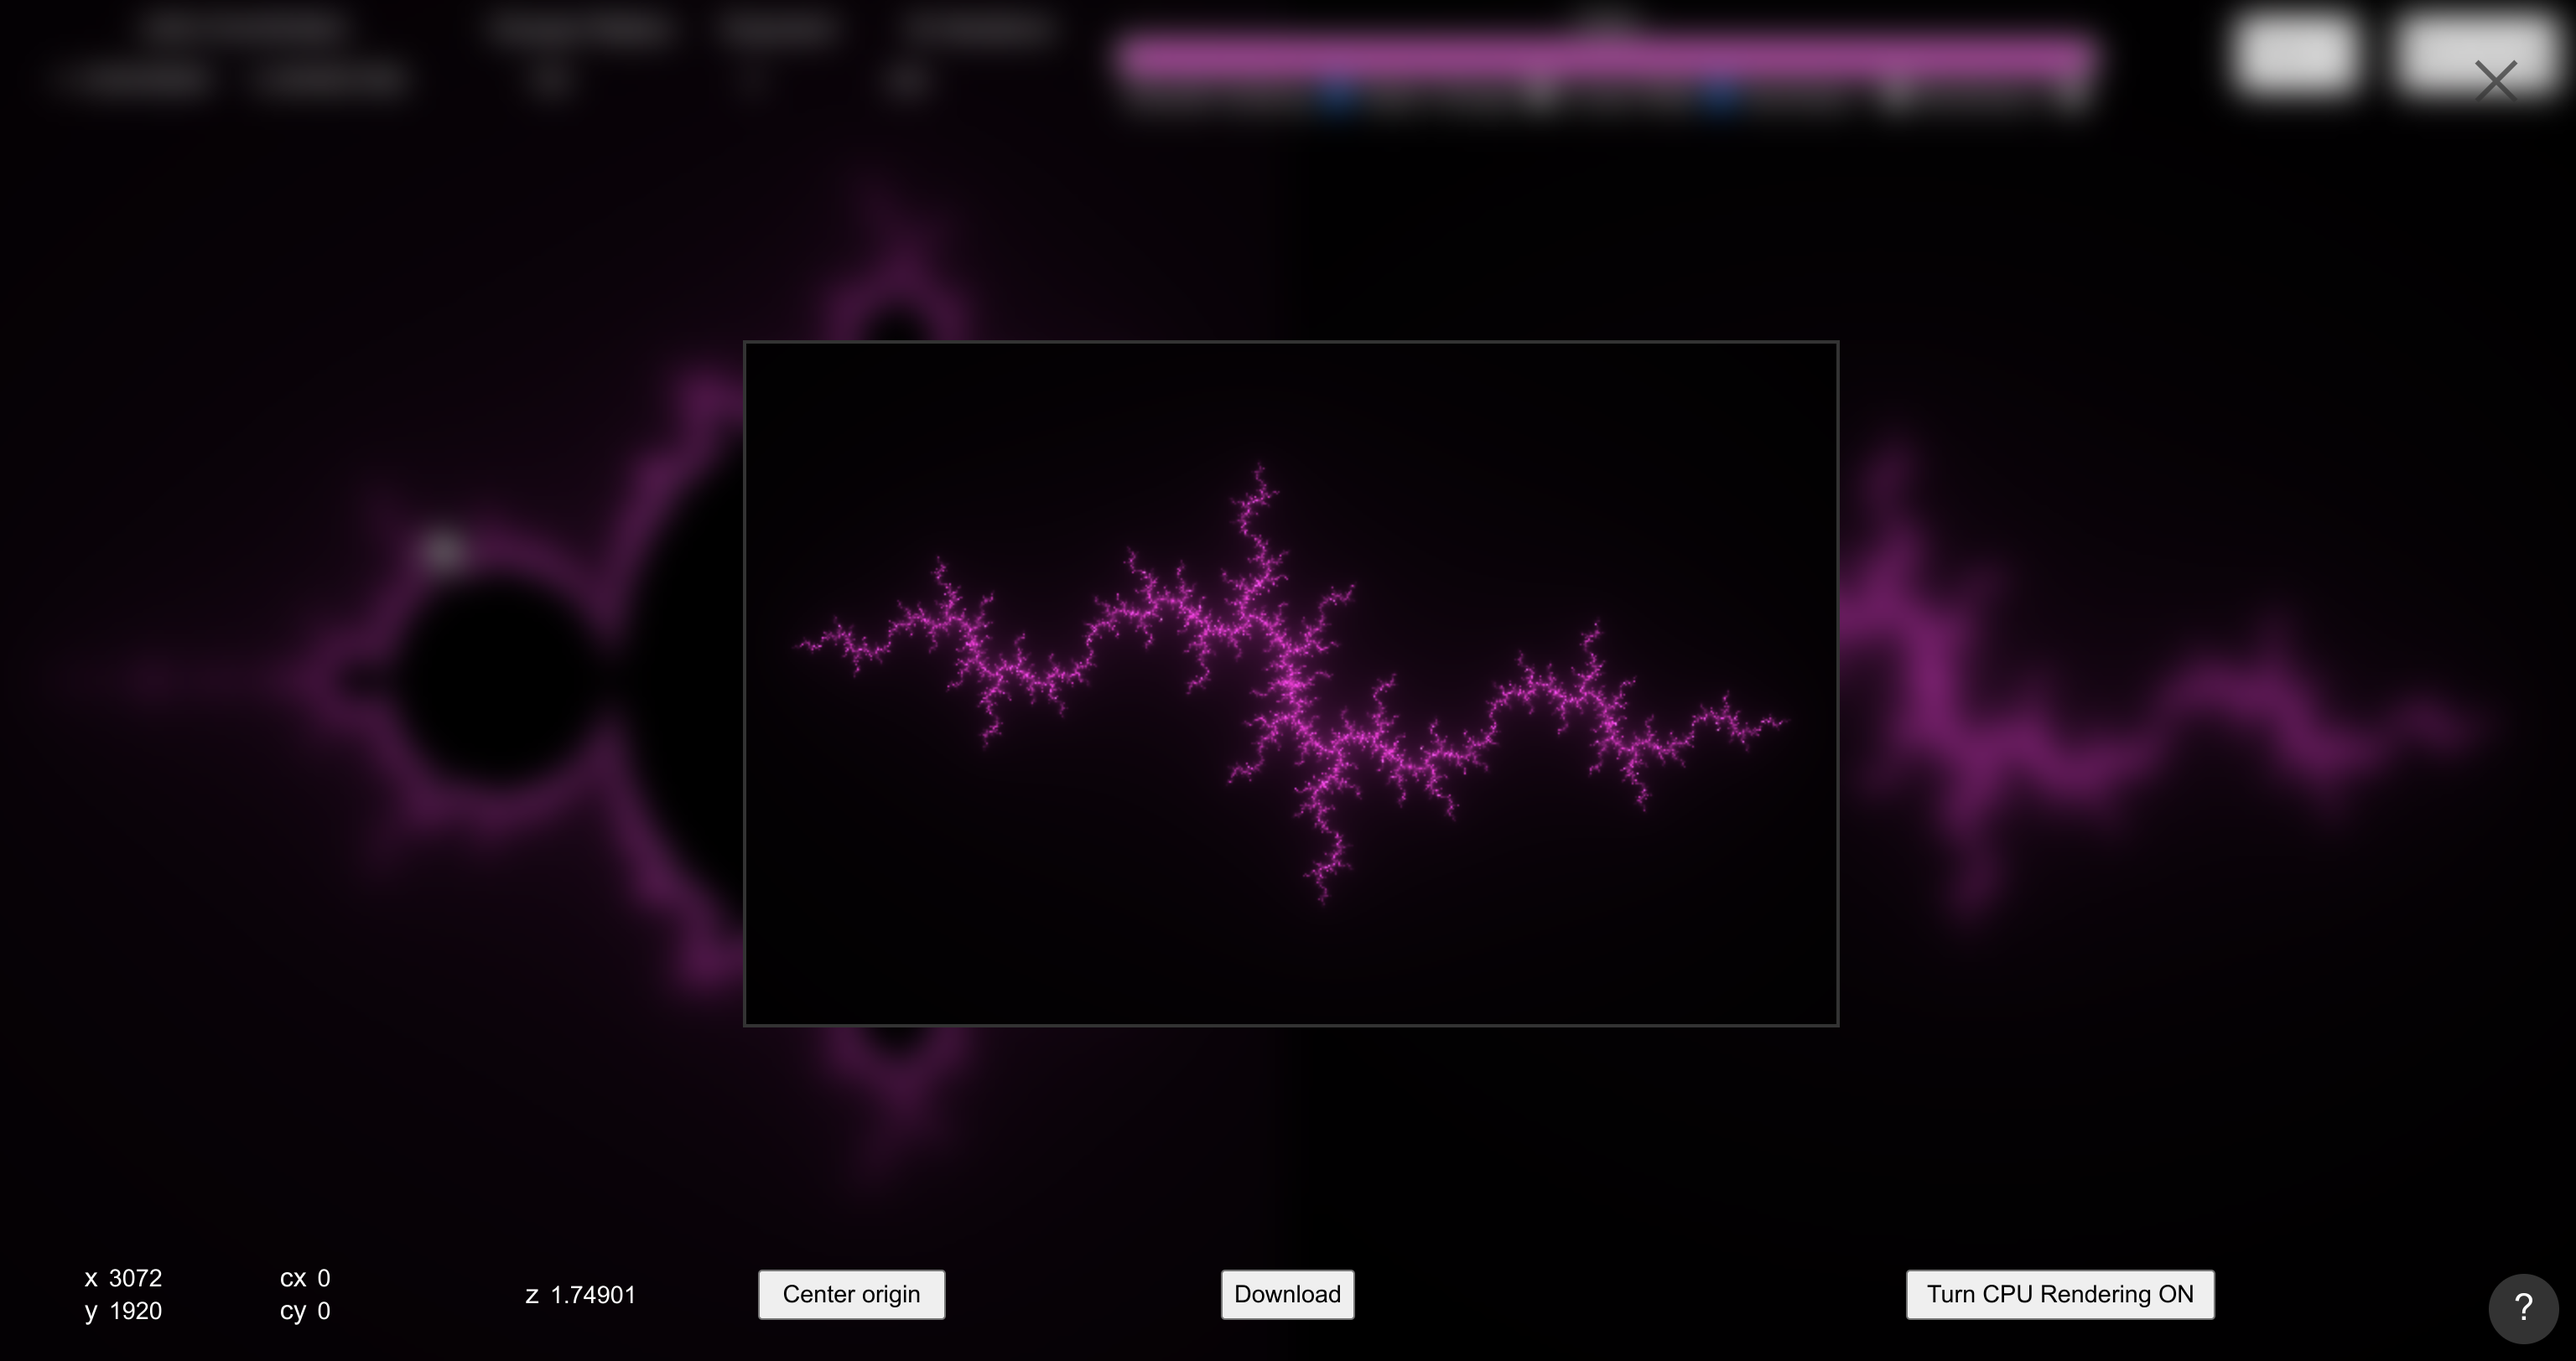
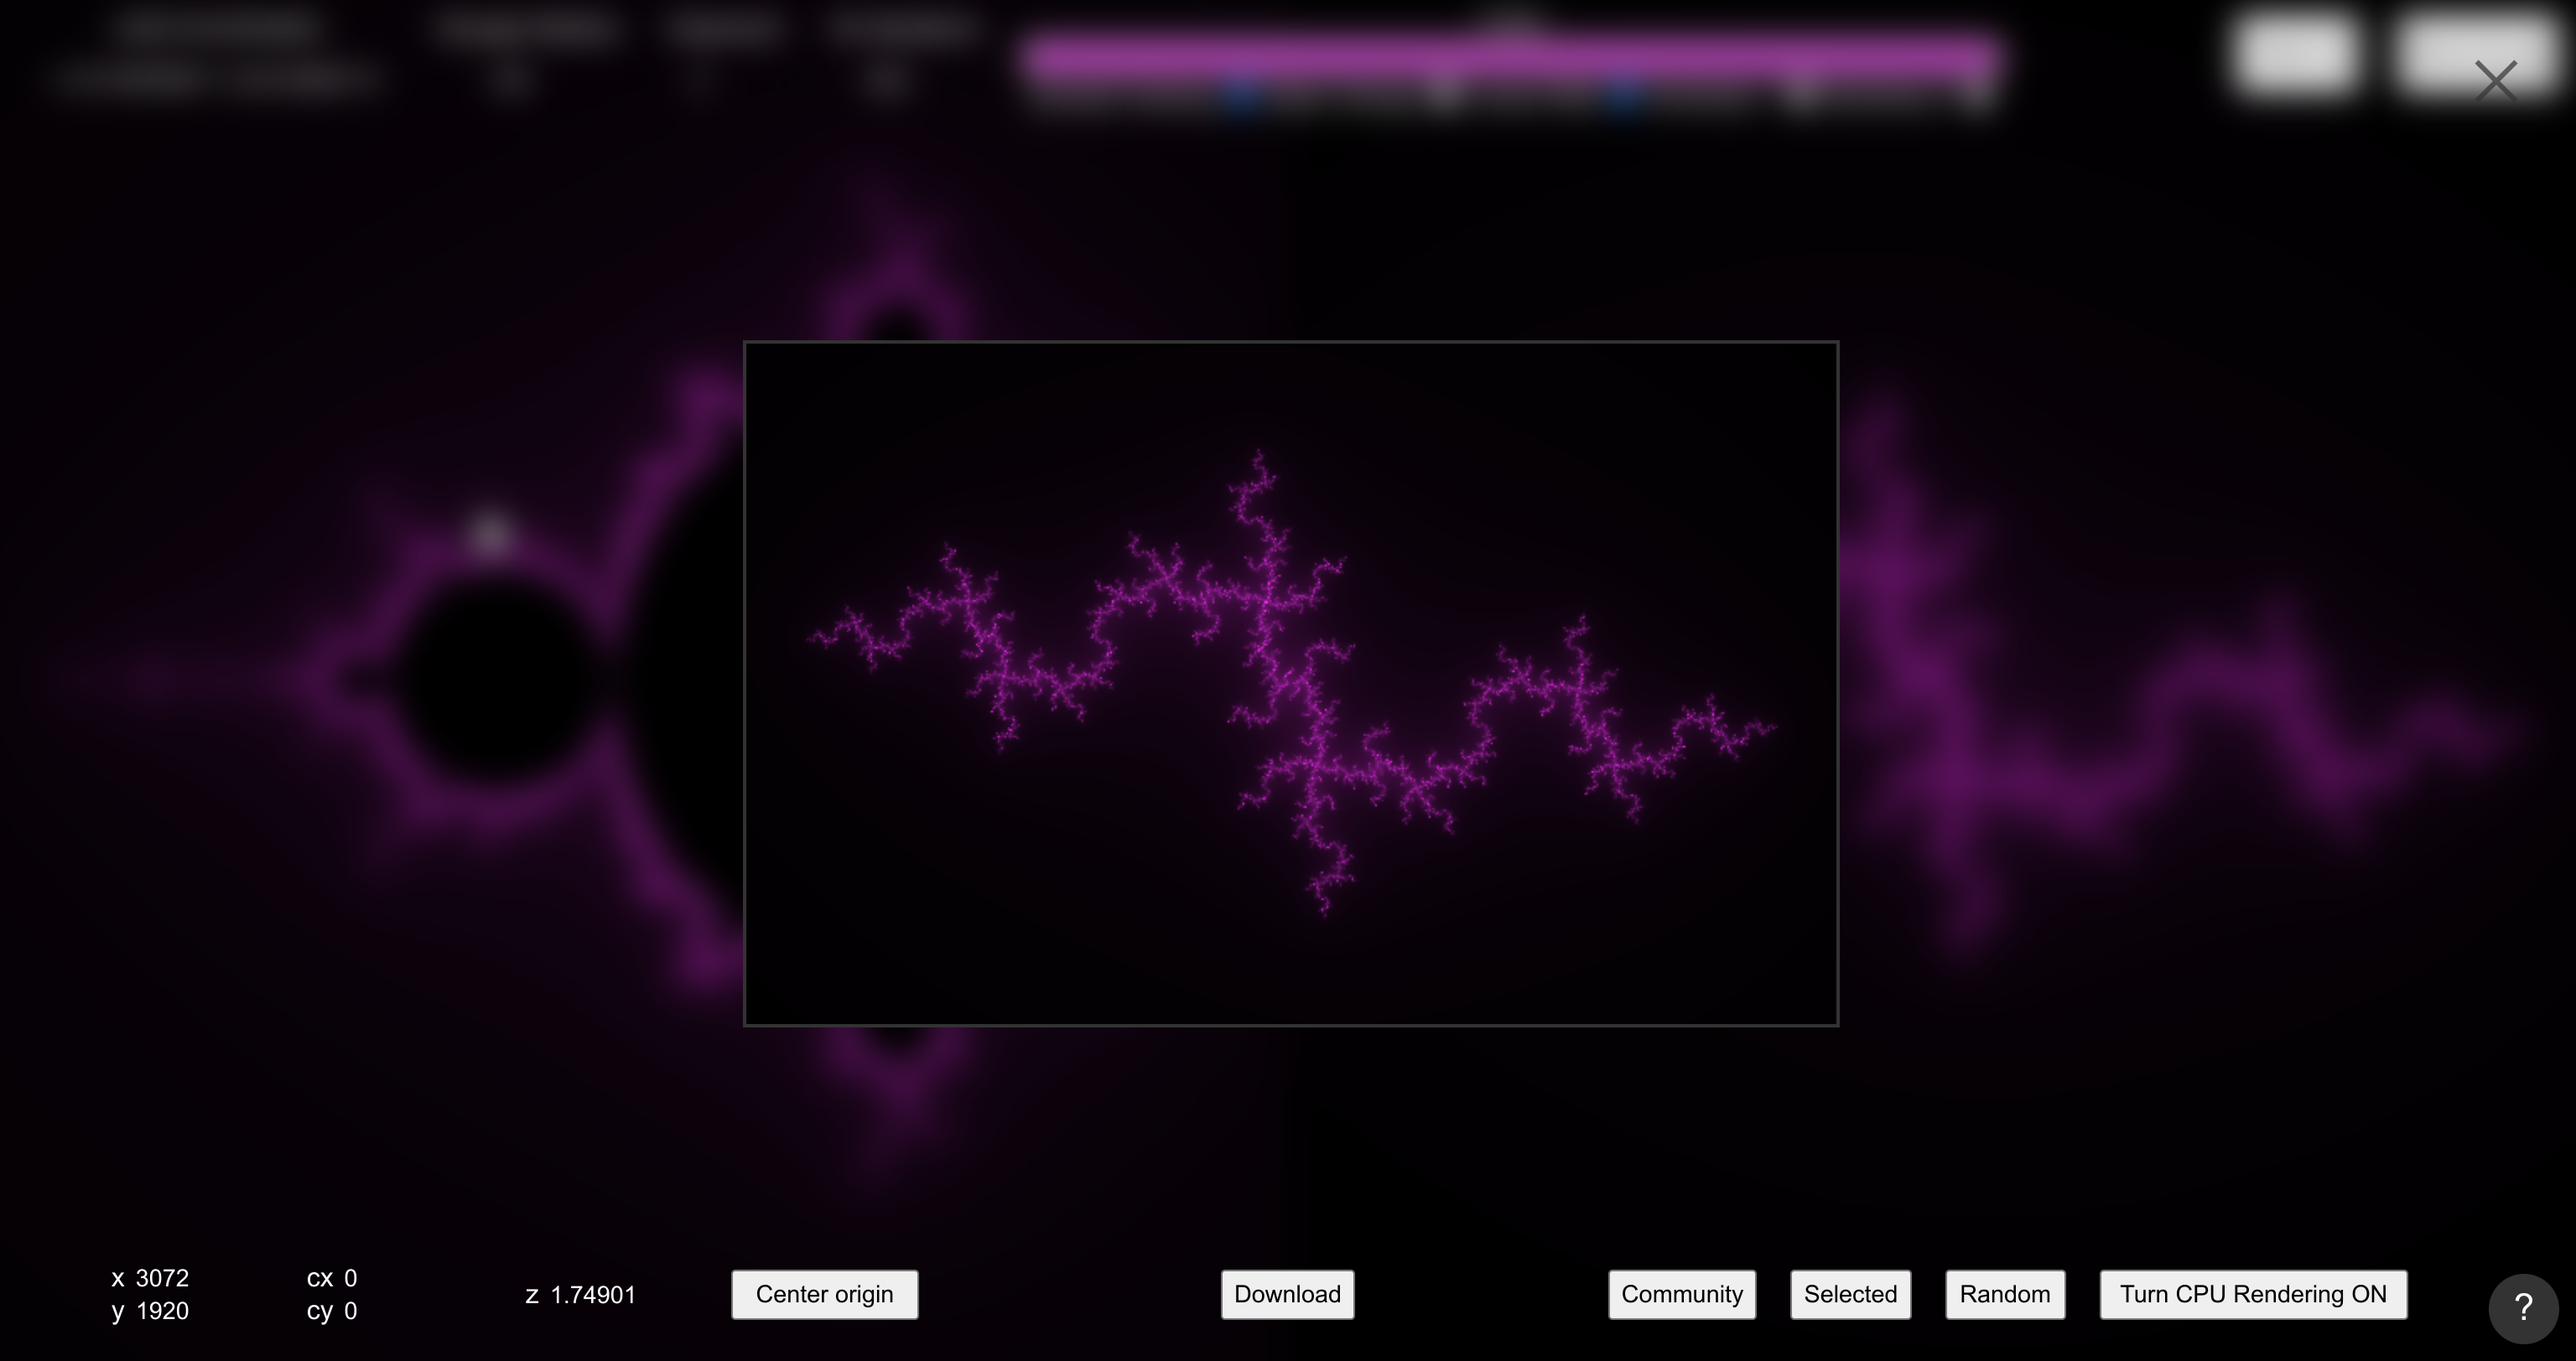
update image for preview

diff --git a/src/css/main.css b/src/css/main.css
@@ -301,6 +301,7 @@ input[type='color']::-webkit-color-swatch {
 
 #preview-cpu-render-btn {
     margin: auto;
+    margin-right: 100px;
     margin-left: 10px;
     height: 30px;
     width: 23ch;

diff --git a/README.md b/README.md
@@ -90,6 +90,10 @@ Note that changing the resolution will not affect the quality of the image in th
 
 ![example screenshot of the editor for / preview of the image to download](/imgs/controlsUI/downloadEditorAndPreview.png)
 
+```
+JuliaSet_183_34_185_300_2_100_-1.0174876847290641_0.3214285714285714_0_0_1.7490062499999994_SC_LC_0.png
+```
+
 ## Filenames
 
 All downloaded Julia sets will have a filename in a very particular format:
